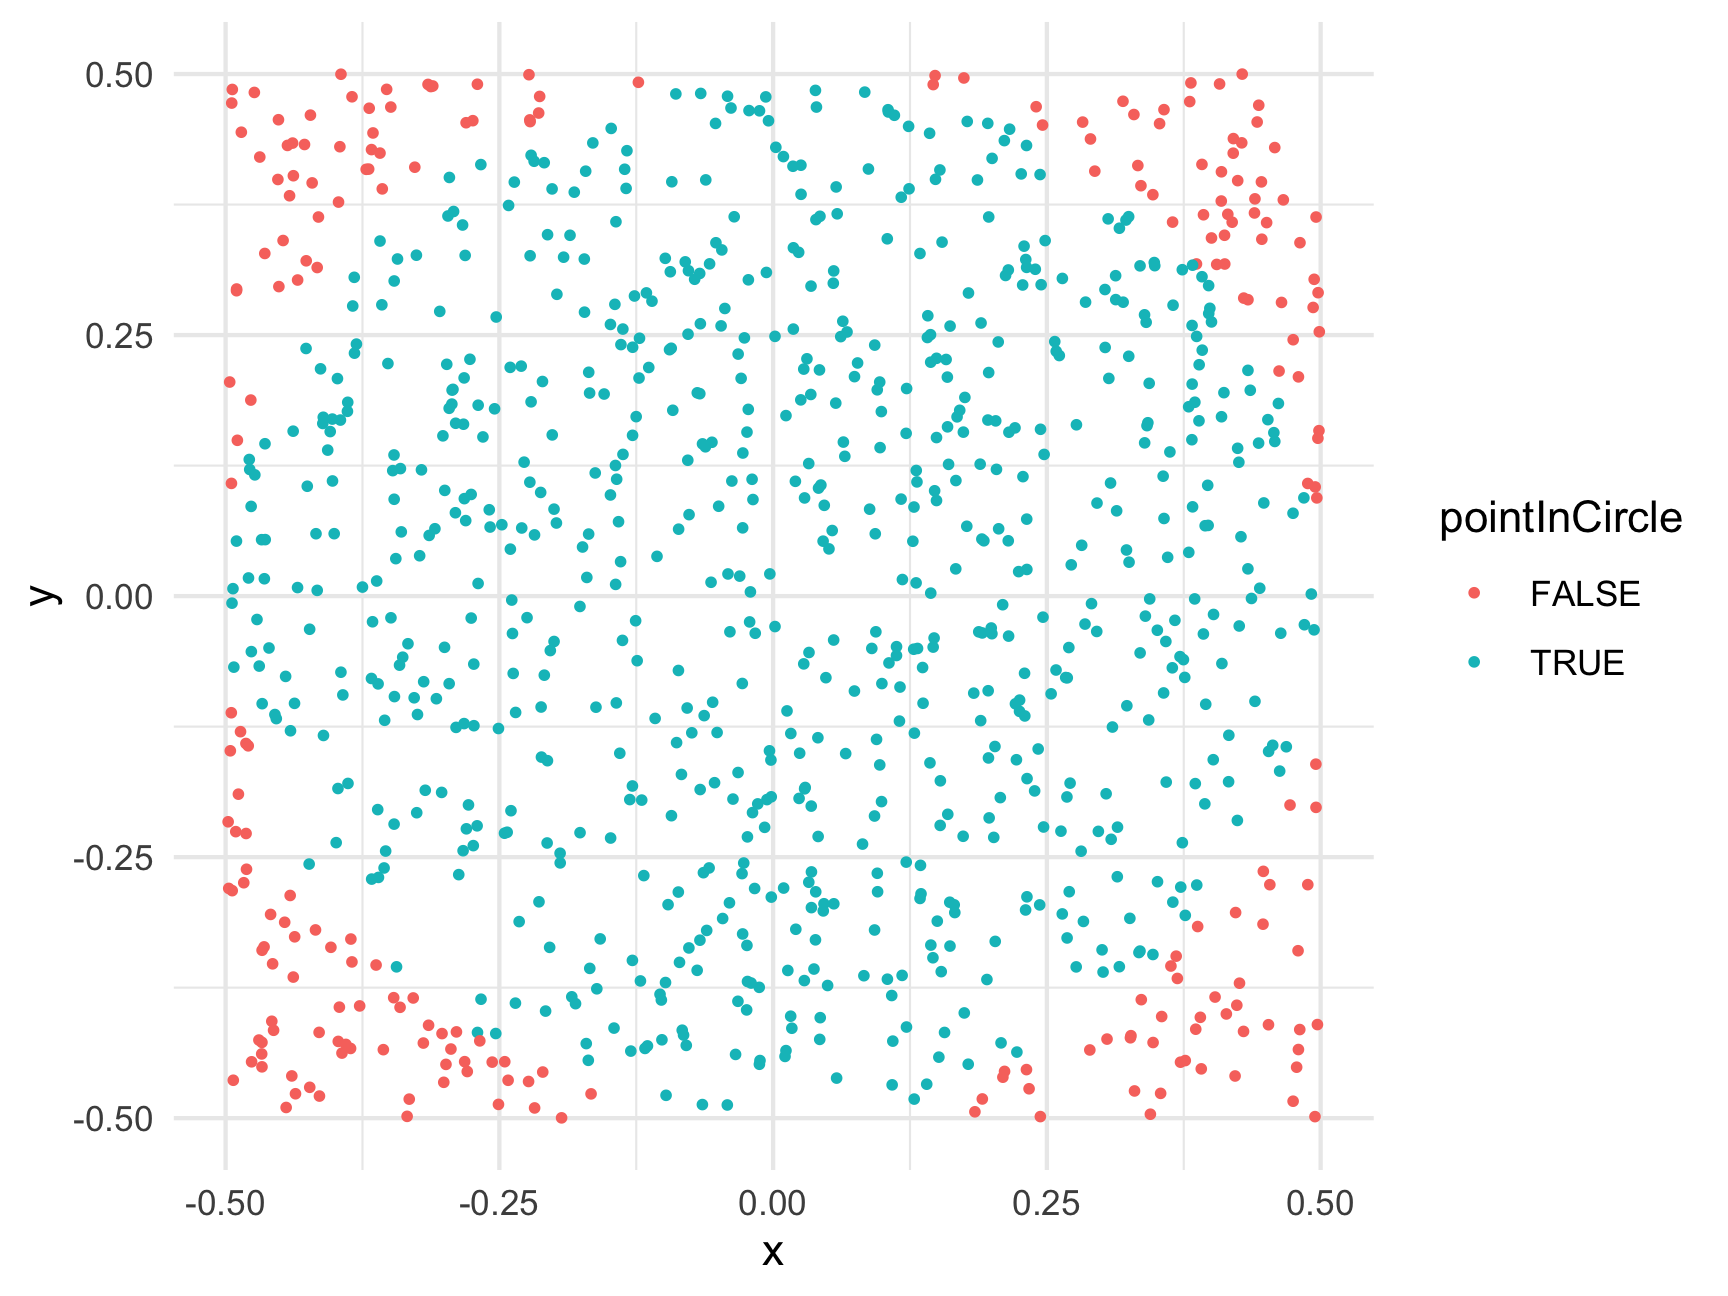
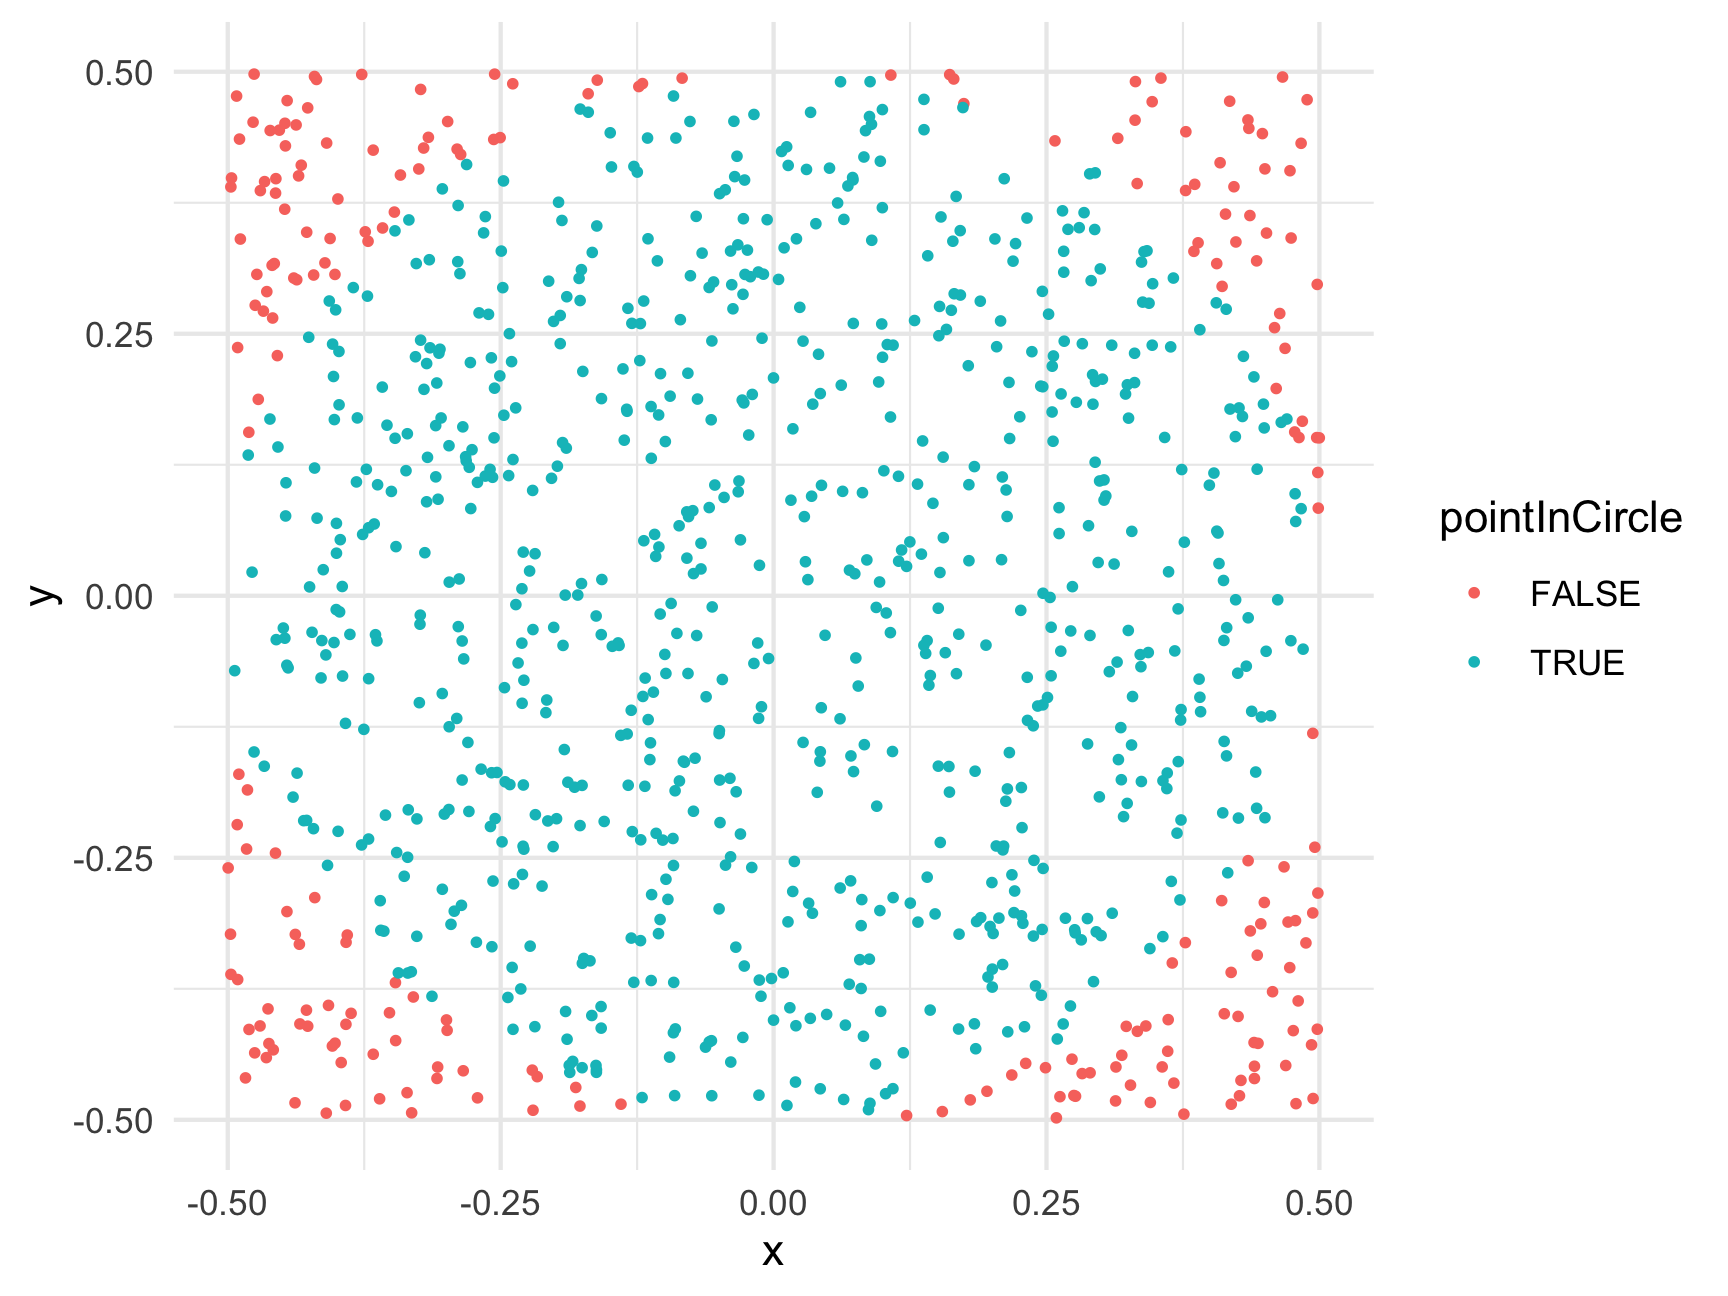
Deploying to gh-pages from  @ a2797196deedcf26d1d01291bbaf518dc36c9aa7 🚀

diff --git a/r13-monte-carlo-methods.html b/r13-monte-carlo-methods.html
@@ -805,11 +805,11 @@ ratio &lt;- sum(belowCurve) / numTrials
 totalArea &lt;- (7 - 3) * 7^2 # Rectangle length x height = 196
 areaUnderCurve &lt;- ratio * totalArea
 areaUnderCurve</code></pre>
-<pre><code>#&gt; [1] 105.6714</code></pre>
-<p>So, using Monte Carlo simulation with 100,000 points, we estimate that the area under the curve is 105.67144. How’d we do? Well, if you’re familiar with calculus, the integral of <span class="math inline">\(f(x) = x^2\)</span> has a closed-form solution (<span class="math inline">\(\frac{x^3}{3} + C\)</span>), so we can check our estimate against the pure-math solution:</p>
+<pre><code>#&gt; [1] 105.5088</code></pre>
+<p>So, using Monte Carlo simulation with 100,000 points, we estimate that the area under the curve is 105.50876. How’d we do? Well, if you’re familiar with calculus, the integral of <span class="math inline">\(f(x) = x^2\)</span> has a closed-form solution (<span class="math inline">\(\frac{x^3}{3} + C\)</span>), so we can check our estimate against the pure-math solution:</p>
 <p><span class="math display">\[\int_{3}^{7} x^2 \mathrm{dx} = \left ( \frac{x^3}{3} \right ) \Big|_3^7 = \frac{7^3}{3} - \frac{3^3}{3} = 105.33\bar{3}\]</span></p>
-<p>So our estimate error is: <code>105.333 -</code> <code>105.67144</code> <code>=</code> <code>-0.3381067</code>.</p>
-<p>That’s an error of just 0.32 % - not bad!</p>
+<p>So our estimate error is: <code>105.333 -</code> <code>105.50876</code> <code>=</code> <code>-0.1754267</code>.</p>
+<p>That’s an error of just 0.17 % - not bad!</p>
 <hr />
 </div>
 <div id="monte-carlo-pi" class="section level1">
@@ -839,13 +839,13 @@ points &lt;- data.frame(
     x = runif(numTrials, -0.5, 0.5),
     y = runif(numTrials, -0.5, 0.5))
 head(points)</code></pre>
-<pre><code>#&gt;             x           y
-#&gt; 1 -0.03553051  0.36330689
-#&gt; 2 -0.49245754 -0.06803893
-#&gt; 3  0.17421190  0.49623873
-#&gt; 4 -0.39463888  0.49982851
-#&gt; 5 -0.23938567 -0.20553679
-#&gt; 6 -0.44602884 -0.31237800</code></pre>
+<pre><code>#&gt;             x          y
+#&gt; 1  0.05123027  0.4080025
+#&gt; 2  0.30975871  0.2390858
+#&gt; 3 -0.09023203 -0.1860541
+#&gt; 4  0.32391080 -0.1981002
+#&gt; 5  0.01753754 -0.2821353
+#&gt; 6 -0.13458266  0.1779506</code></pre>
 <p>For this example, we’re putting the points in a data frame to make it easier to work with. Now that we have random x and y points, let’s compute the radius to each point (the distance from <code>(x, y) = (0, 0)</code>) so we can determine which points fall inside the circle (which has a radius of 0.5):</p>
 <pre class="r"><code>library(dplyr)
 points &lt;- points %&gt;%
@@ -862,9 +862,9 @@ ggplot(points) +
 <pre class="r"><code>ratio &lt;- sum(points$pointInCircle) / nrow(points)
 piApprox &lt;- 4 * ratio
 piApprox</code></pre>
-<pre><code>#&gt; [1] 3.068</code></pre>
-<p>So our estimate error is: <code>3.1415 -</code> <code>3.068</code> <code>=</code> <code>-0.0735927</code>.</p>
-<p>That’s an error of just 2.34 % - not bad for only 1,000 points!</p>
+<pre><code>#&gt; [1] 3.08</code></pre>
+<p>So our estimate error is: <code>3.1415 -</code> <code>3.08</code> <code>=</code> <code>-0.0615927</code>.</p>
+<p>That’s an error of just 1.96 % - not bad for only 1,000 points!</p>
 <p>To get an even better estimate of <span class="math inline">\(\pi\)</span>, we can increase N. Let’s see what we get with 100,000 trials:</p>
 <pre class="r"><code>numTrials &lt;- 100000
 points &lt;- data.frame(
@@ -876,13 +876,13 @@ points &lt;- data.frame(
 ratio &lt;- sum(points$pointInCircle) / nrow(points)
 piApprox &lt;- 4 * ratio
 piApprox</code></pre>
-<pre><code>#&gt; [1] 3.1398</code></pre>
+<pre><code>#&gt; [1] 3.14472</code></pre>
 <pre class="r"><code># Compute error:
 error &lt;- piApprox - pi
 percentError &lt;- round(100*abs(error / pi), 2)
 percentError</code></pre>
-<pre><code>#&gt; [1] 0.06</code></pre>
-<p>By increasing the number of trials from 1,000 to 100,000, we improved our estimate error from 2.34 % to 0.06 %!</p>
+<pre><code>#&gt; [1] 0.1</code></pre>
+<p>By increasing the number of trials from 1,000 to 100,000, we improved our estimate error from 1.96 % to 0.1 %!</p>
 <hr />
 <p><strong>Page sources</strong>:</p>
 <p>Some content on this page has been modified from other courses, including:</p>

diff --git a/r2-functions-packages.html b/r2-functions-packages.html
@@ -763,7 +763,7 @@ div.tocify {
 <p>Here the letters <code>sqrt</code> are short for “square root,” and the value inside the <code>()</code> is the “argument” to the function. In the example above, the value <code>225</code> is the “argument”.</p>
 <p>Keep in mind that not all functions have (or require) arguments:</p>
 <pre class="r"><code>date() # Returns the current date and time</code></pre>
-<pre><code>#&gt; [1] &quot;Thu Jan 20 15:47:49 2022&quot;</code></pre>
+<pre><code>#&gt; [1] &quot;Fri Jan 21 11:23:45 2022&quot;</code></pre>
 <p>(the date above is the date this page was last built)</p>
 <div id="multiple-arguments" class="section level2">
 <h2>Multiple arguments</h2>
@@ -981,9 +981,9 @@ library(packagename)   # This also works</code></pre>
 <p>Now that you have the package installed on your computer, try loading it using <code>library(wikifacts)</code>, then trying using some of it’s functions:</p>
 <pre class="r"><code>library(wikifacts) # Load the library</code></pre>
 <pre class="r"><code>wiki_randomfact()</code></pre>
-<pre><code>#&gt; [1] &quot;Did you know that the largest English army to serve overseas prior to 1600 was gathered at the Siege of Calais in 1347? (Courtesy of Wikipedia)&quot;</code></pre>
+<pre><code>#&gt; [1] &quot;Here&#39;s some news from 28 December 2016. More than 30 people are killed by government security forces as protests break out across the Democratic Republic of the Congo following Joseph Kabila&#39;s refusal to step down after the completion of his scheduled term in office. (Courtesy of Wikipedia)&quot;</code></pre>
 <pre class="r"><code>wiki_didyouknow()</code></pre>
-<pre><code>#&gt; [1] &quot;Did you know that during the Humboldt Park riot 40 years ago, the Chicago police department battled Puerto Rican protesters and rioters? (Courtesy of Wikipedia)&quot;</code></pre>
+<pre><code>#&gt; [1] &quot;Did you know that the opening number for the 2016 musical film La La Land was shot in a six-minute single take on a 130-foot (40 m)-high freeway ramp in South Los Angeles? (Courtesy of Wikipedia)&quot;</code></pre>
 <p>In case you’re wondering, the only thing this package does is generate messages containing random facts from <a href="https://www.wikipedia.org/">Wikipedia</a>.</p>
 </div>
 <div id="using-only-some-package-functions" class="section level2">
@@ -994,7 +994,7 @@ library(packagename)   # This also works</code></pre>
 </blockquote>
 <p>Here I use the name of the <em>package</em> followed by <code>::</code> to tell R that I’m looking for a function that is in that package. For example, if I didn’t want to load the whole <strong>wikifacts</strong> library but still wanted to use the <code>wiki_randomfact()</code> function, I could do this:</p>
 <pre class="r"><code>wikifacts::wiki_randomfact()</code></pre>
-<pre><code>#&gt; [1] &quot;Did you know that on January 10 in 1776 – Common Sense, a pamphlet by Thomas Paine denouncing British rule in the Thirteen Colonies, was published. (Courtesy of Wikipedia)&quot;</code></pre>
+<pre><code>#&gt; [1] &quot;Here&#39;s some news from 06 June 2020. Costa Rica becomes the first Central American country to legalise same-sex marriage. (Courtesy of Wikipedia)&quot;</code></pre>
 <p>Where this is particularly handy is when two packages have a function with the same name. If you load both library, R might not know which function to use. In those cases, it’s best to also provide the <strong>package</strong> name. For example, let’s say there was a package called <strong>apples</strong> and another called <strong>bananas</strong>, and each had a function named <code>fruitName()</code>. If I wanted to use each of them in my code, I would need to specify the package names like this:</p>
 <pre class="r"><code>apples::fruitName()
 bananas::fruitName()</code></pre>

diff --git a/hw2-functions-packages.html b/hw2-functions-packages.html
@@ -773,7 +773,7 @@ $(document).ready(function () {
 <blockquote>
 <p>Note: Packges on GitHub are <em>in development</em> and often require other packges to work. So if you get an installation error about some other package dependency, try restarting your R session and try again.</p>
 </blockquote>
-<p>Not sure what this package does? Well, one of the other nice things about packages listed on GitHub is the authors tend to write detailed descriptions - check out the <a href="https://github.com/brooke-watson/BRRR">GitHub page for the BRRR package</a>. Then try using the <code>BRRR::skrrrahh()</code> function with different number arguments (turn your volume up). In the <code>#hw2</code> channel on slack, post your favorite argument to <code>skrrrahh()</code> (mine is 24).</p>
+<p>Not sure what this package does? Well, one of the other nice things about packages listed on GitHub is the authors tend to write detailed descriptions - check out the <a href="https://github.com/brooke-watson/BRRR">GitHub page for the BRRR package</a>. Then try using the <code>BRRR::skrrrahh()</code> function with different number arguments (turn your volume up). In the <code>#hw</code> channel on slack, post your favorite argument to <code>skrrrahh()</code> (mine is 24).</p>
 </div>
 <div id="turtle-practice-collaborative-20" class="section level3">
 <h3>6) Turtle practice [COLLABORATIVE, 20%]</h3>

diff --git a/schedule.html b/schedule.html
@@ -703,22 +703,22 @@ Jan 13
 </td>
 </tr>
 <tr>
-<td style="text-align:center;">
+<td style="text-align:center;background-color: #e1e1e1 !important;">
 2
 </td>
-<td style="text-align:center;width: 2em; ">
+<td style="text-align:center;width: 2em; background-color: #e1e1e1 !important;">
 Jan 20
 </td>
-<td style="text-align:left;">
+<td style="text-align:left;background-color: #e1e1e1 !important;">
 Quiz 1: <br> <em>Week 1</em>
 </td>
-<td style="text-align:left;width: 20em; ">
+<td style="text-align:left;width: 20em; background-color: #e1e1e1 !important;">
 <a href="c2-functions-packages.html"><i class="fas fa-laptop-code"></i></a> <strong>Functions &amp; Packages</strong><br>Functions, arguments, installing external packages
 </td>
-<td style="text-align:left;width: 9em; ">
+<td style="text-align:left;width: 9em; background-color: #e1e1e1 !important;">
 <a href="hw2-functions-packages.html"><i class="fas fa-pencil-ruler"></i></a> <strong>HW 2</strong><br>Due: Jan 26
 </td>
-<td style="text-align:left;">
+<td style="text-align:left;background-color: #e1e1e1 !important;">
 <a href="r3-creating-functions.html"><i class="fas fa-book"></i></a> Creating Functions
 </td>
 </tr>
